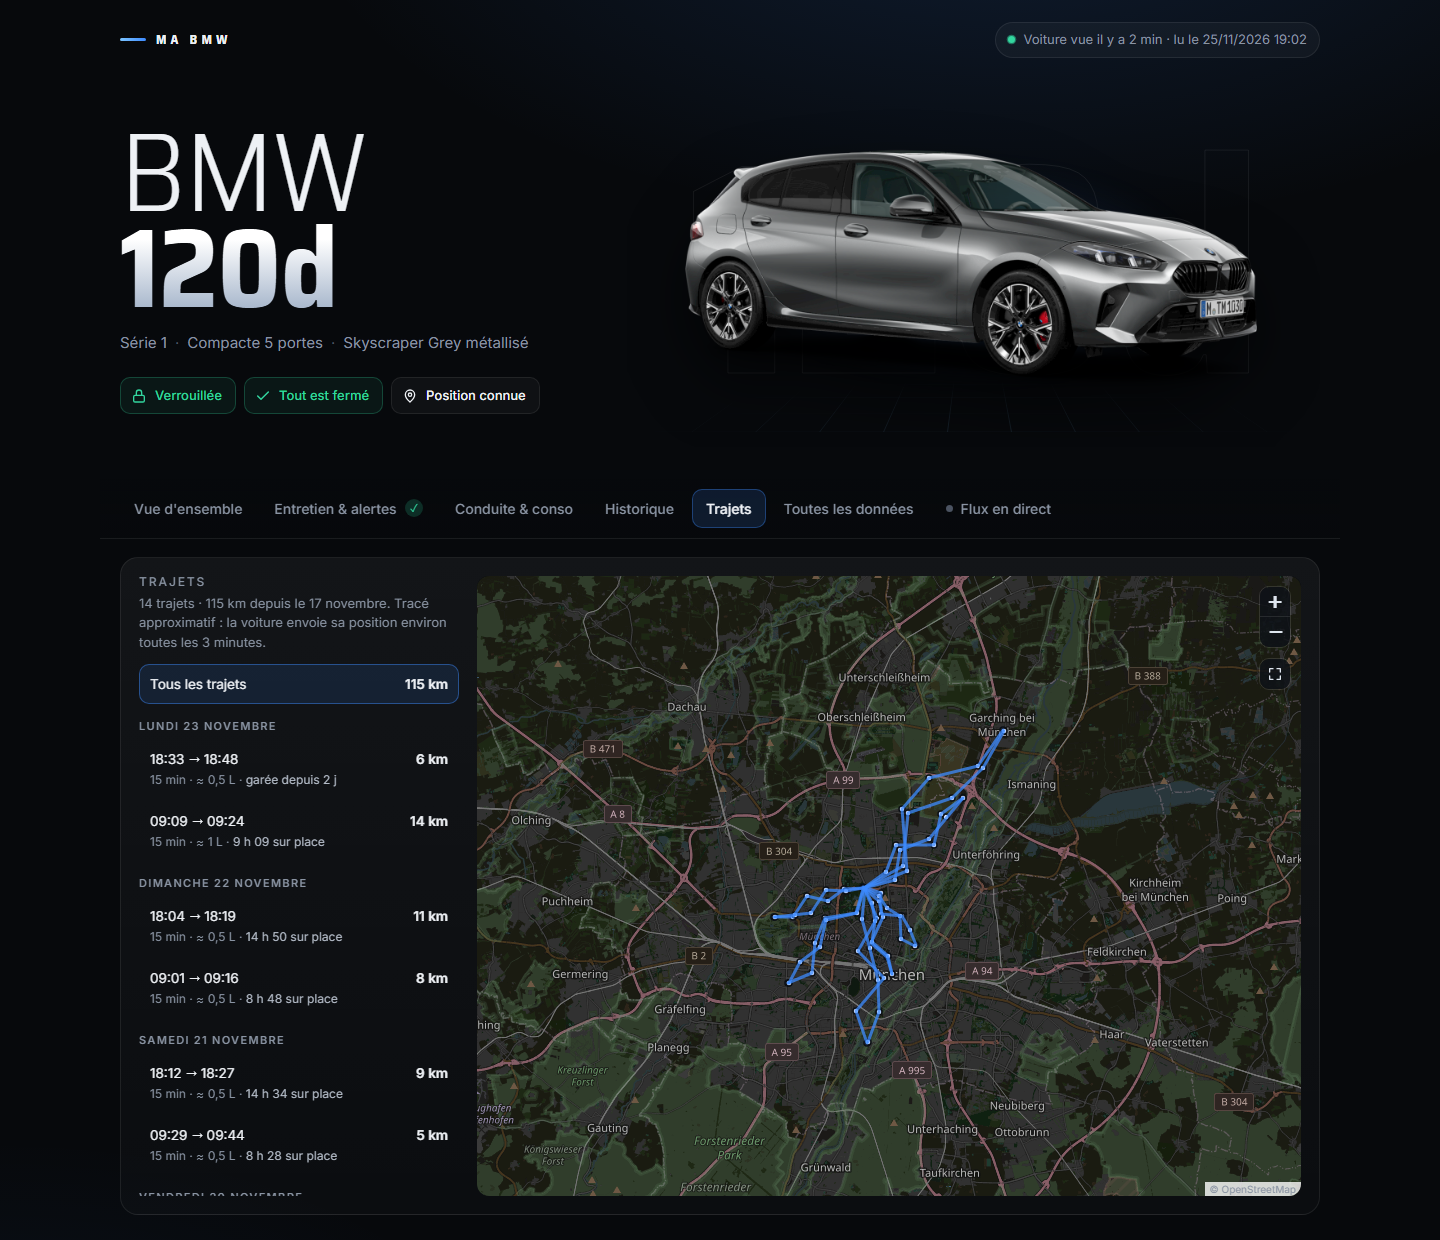
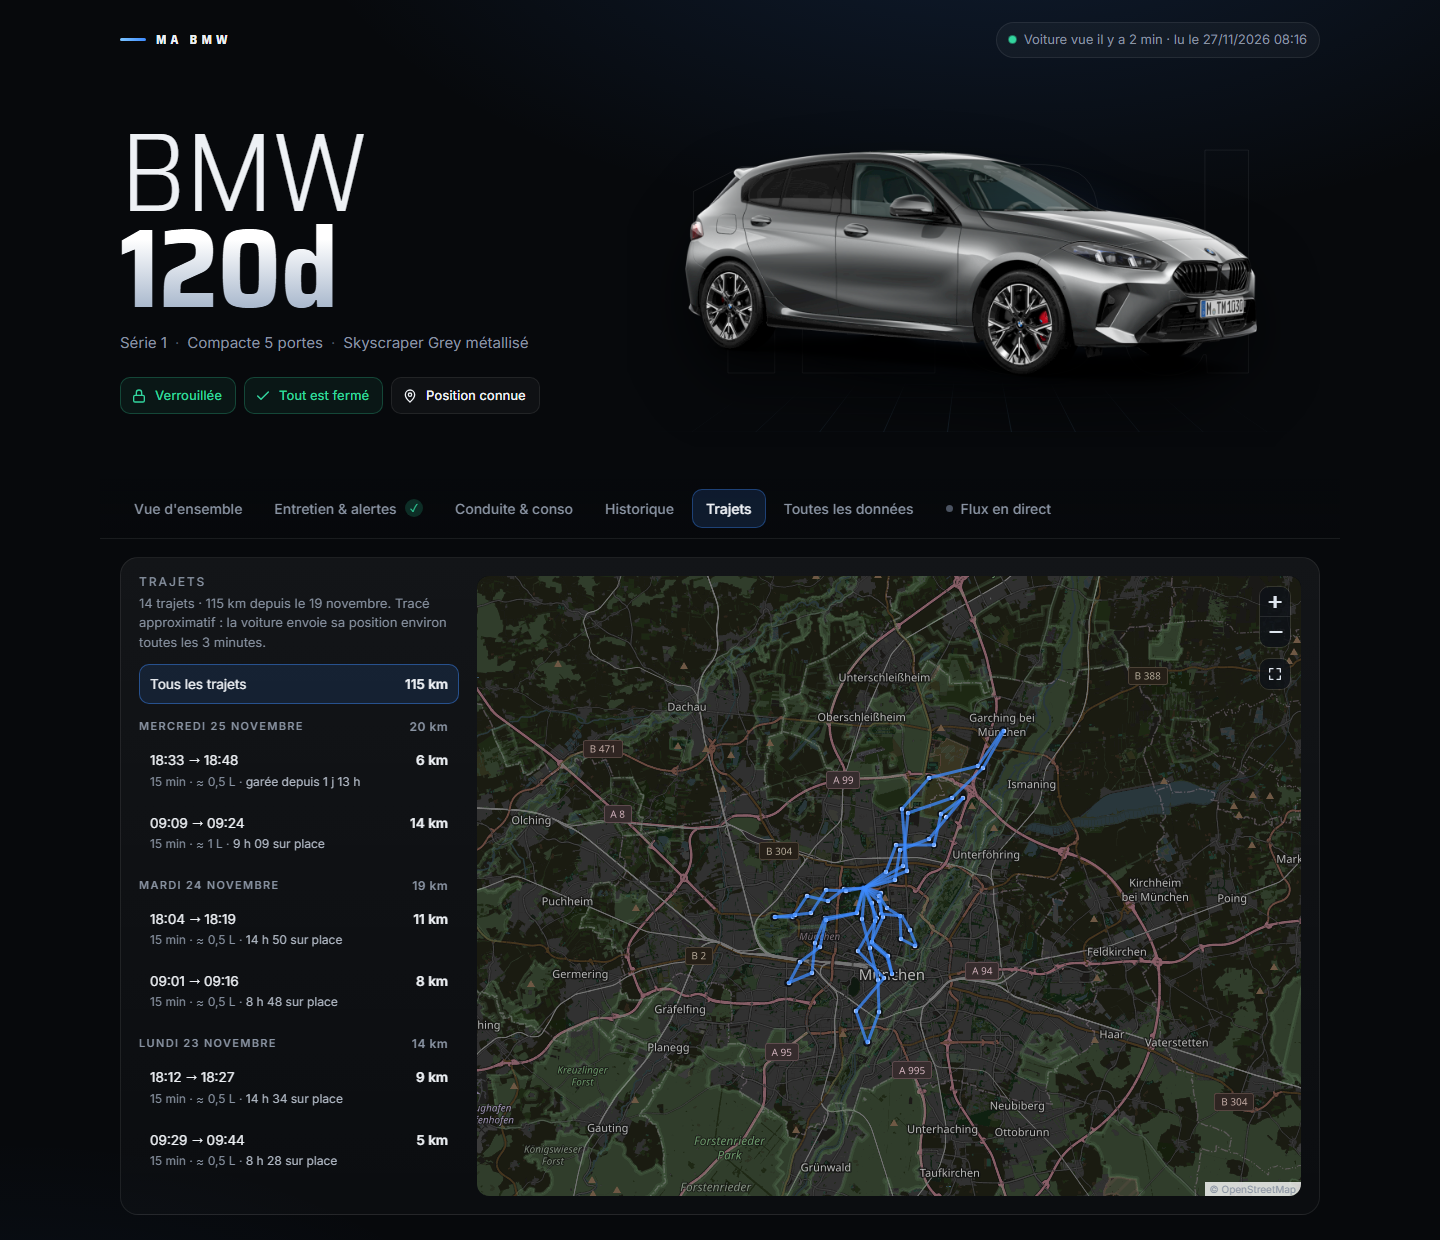
Trajets : kilomètres parcourus dans la journée à côté de chaque jour
Somme des trajets partis ce jour-là, alignée sur les kilomètres des
trajets. Captures du README refaites.

diff --git a/dashboard_template.html b/dashboard_template.html
@@ -176,7 +176,9 @@ body {
 .trips-map { min-height: 620px; border-radius: 12px; overflow: hidden; }
 .trips-map::after { display: none; }
 .trips-map .leaflet-top.leaflet-right { top: 0; transform: none; }
-.trip-day { color: var(--muted); font-size: 11px; font-weight: 600; letter-spacing: .12em; text-transform: uppercase; margin: 14px 0 4px; }
+.trip-day { color: var(--muted); font-size: 11px; font-weight: 600; letter-spacing: .12em; text-transform: uppercase; margin: 14px 0 4px;
+  display: flex; justify-content: space-between; gap: 10px; padding-right: 11px; }  /* total du jour aligné sur les km des trajets */
+.trip-day .day-km { text-transform: none; letter-spacing: .04em; font-size: 12px; }
 .trip { display: grid; grid-template-columns: 1fr auto; gap: 2px 10px; width: 100%; text-align: left; padding: 9px 10px; margin: 2px 0;
   border: 1px solid transparent; border-radius: 10px; background: none; color: var(--text); font: inherit; font-size: 13.5px; cursor: pointer; }
 .trip:hover { background: rgba(255,255,255,.04); }
@@ -1796,9 +1798,13 @@ function fluxValue(k, e) {
   const first = trips[trips.length - 1].a;
   $("tripsHint").textContent = `${fmt(trips.length)} trajet${trips.length > 1 ? "s" : ""} · ${fmt(total)} km depuis le ${first.toLocaleDateString("fr-FR", { day: "numeric", month: "long" })}. Tracé approximatif : la voiture envoie sa position environ toutes les 3 minutes.`;
   let html = `<button type="button" class="trip" role="option" data-i="-1" aria-selected="true"><span>Tous les trajets</span><span class="km">${fmt(total)} km</span></button>`, day = "";
+  // jour de chaque trajet (jour du départ) et kilomètres parcourus ce jour-là
+  const dayOf = t => t.a.toLocaleDateString("fr-FR", { weekday: "long", day: "numeric", month: "long" });
+  const dayKm = {};
+  trips.forEach(t => dayKm[dayOf(t)] = (dayKm[dayOf(t)] || 0) + (t.km || 0));
   trips.forEach((t, i) => {
-    const d = t.a.toLocaleDateString("fr-FR", { weekday: "long", day: "numeric", month: "long" });
-    if (d !== day) { html += `<div class="trip-day">${esc(d)}</div>`; day = d; }
+    const d = dayOf(t);
+    if (d !== day) { html += `<div class="trip-day"><span>${esc(d)}</span><span class="day-km" title="Kilomètres parcourus ce jour-là">${fmt(dayKm[d])} km</span></div>`; day = d; }
     html += `<button type="button" class="trip" role="option" data-i="${i}" aria-selected="false"><span>${hour(t.a)} → ${hour(t.b)}</span><span class="km">${fmt(t.km)} km</span><span class="sub">${dur(t.a, t.b)}${fuelText(t)}${t.stay ? ` · <span class="stay">${t.stay}</span>` : ""}</span></button>`;
   });
   list.innerHTML = html;

diff --git a/README.md b/README.md
@@ -353,7 +353,7 @@ La photo est envoyée telle quelle dans un message MQTT (environ 200 Ko), à cha
 | **Entretien & alertes** | Voyants Check Control, entretien détaillé (huile, liquide de frein…), échéances, batteries, alarme, mémoire des défauts |
 | **Conduite & conso** | Consommation moyenne réelle (compteur officiel OBFCM), [consommation depuis le dernier plein](#conso-plein) (estimée), habitudes de conduite, cap et altitude, moteur, navigation, programmateurs de clim |
 | **Historique** | Graphiques sur 7, 30 ou 90 jours : carburant, autonomie, kilomètres par jour, kilométrage, pression des pneus, batterie 12 V. Valeurs au survol, et tableau des valeurs sous chaque graphique |
-| **Trajets** | Les trajets reconstitués à partir des positions enregistrées, classés par jour (horaires, kilomètres, durée, carburant consommé, temps resté sur place à l'arrivée), et leur tracé sur une carte, avec un petit marqueur à chaque position GPS reçue (heure au survol). Un clic sur un trajet le met en évidence, avec son départ et son arrivée. Un bouton sous le zoom recadre la carte sur le trajet choisi (ou sur tous) après un zoom ou un déplacement. Pendant la conduite, la voiture envoie sa position environ toutes les 3 minutes : le tracé relie ces points en ligne droite et ne suit pas exactement la route. Un trajet se termine quand la voiture reste immobile plus de 5 minutes. Le carburant consommé est estimé d'après la baisse du niveau du réservoir, connu au % près (± 0,5 L environ pour 49 L, il faut `tank_liters` dans `config.json`) : il est arrondi au demi-litre, et la consommation en L/100 km n'est donnée qu'à partir de 20 km. Le temps sur place va de l'arrivée au départ du trajet suivant (pour le dernier trajet : « garée depuis … ») ; il n'est pas indiqué pour un arrêt de moins de 15 minutes. Il suppose que tous les trajets ont été enregistrés : si le flux était coupé pendant un déplacement, l'arrêt affiché l'englobe. La carte s'affiche sur la page servie par `stream` |
+| **Trajets** | Les trajets reconstitués à partir des positions enregistrées, classés par jour avec le total de kilomètres de la journée (horaires, kilomètres, durée, carburant consommé, temps resté sur place à l'arrivée), et leur tracé sur une carte, avec un petit marqueur à chaque position GPS reçue (heure au survol). Un clic sur un trajet le met en évidence, avec son départ et son arrivée. Un bouton sous le zoom recadre la carte sur le trajet choisi (ou sur tous) après un zoom ou un déplacement. Pendant la conduite, la voiture envoie sa position environ toutes les 3 minutes : le tracé relie ces points en ligne droite et ne suit pas exactement la route. Un trajet se termine quand la voiture reste immobile plus de 5 minutes. Le carburant consommé est estimé d'après la baisse du niveau du réservoir, connu au % près (± 0,5 L environ pour 49 L, il faut `tank_liters` dans `config.json`) : il est arrondi au demi-litre, et la consommation en L/100 km n'est donnée qu'à partir de 20 km. Le temps sur place va de l'arrivée au départ du trajet suivant (pour le dernier trajet : « garée depuis … ») ; il n'est pas indiqué pour un arrêt de moins de 15 minutes. Il suppose que tous les trajets ont été enregistrés : si le flux était coupé pendant un déplacement, l'arrêt affiché l'englobe. La carte s'affiche sur la page servie par `stream` |
 | **Toutes les données** | La liste complète des valeurs connues, avec une recherche. Un clic sur une ligne déplie **toutes ses valeurs passées**, lues dans la [base](#base-historique) : une ligne par changement, les valeurs identiques qui se suivent étant regroupées (page en direct seulement ; une page ouverte comme fichier ne montre que les courbes de l'onglet Historique) |
 | **Flux en direct** | Chaque message MQTT reçu, regroupé par rafale, avec filtre, pause et repérage des données « hors tableau » |
 
